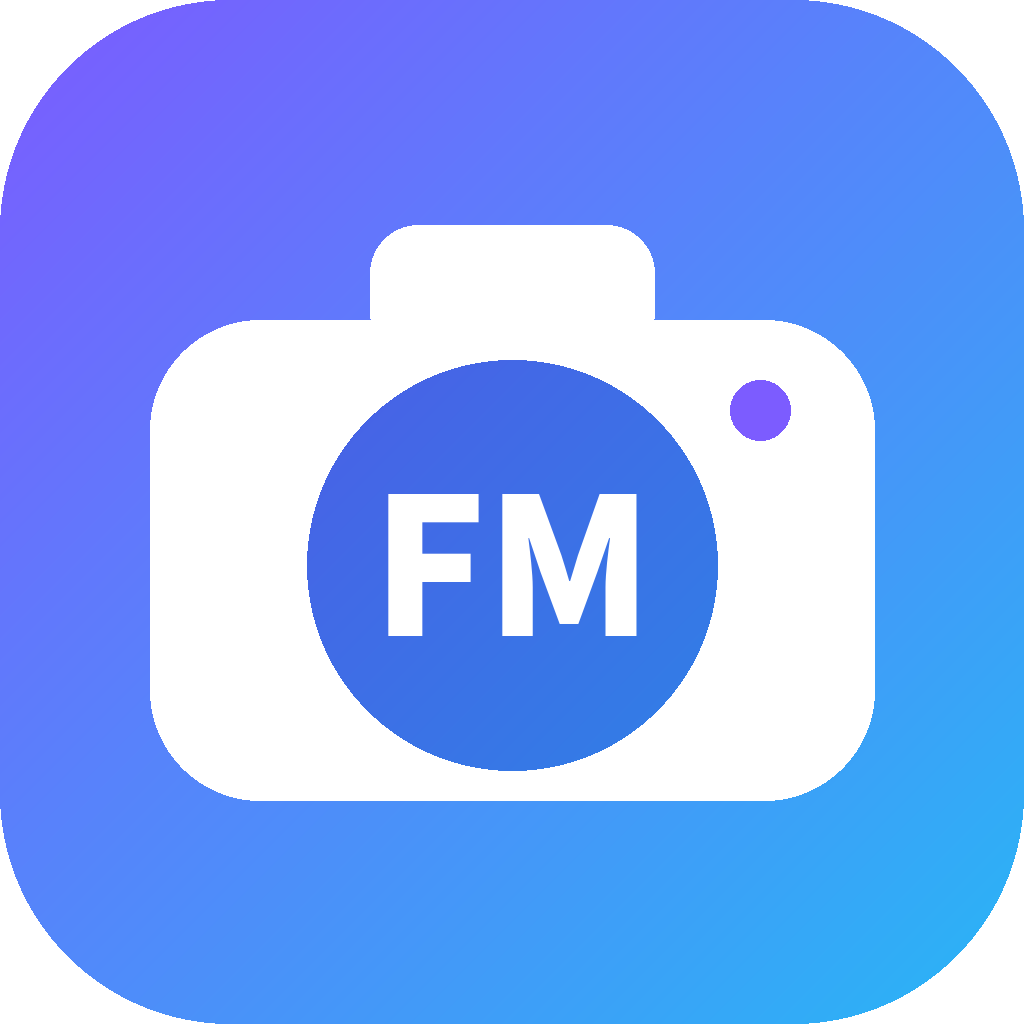
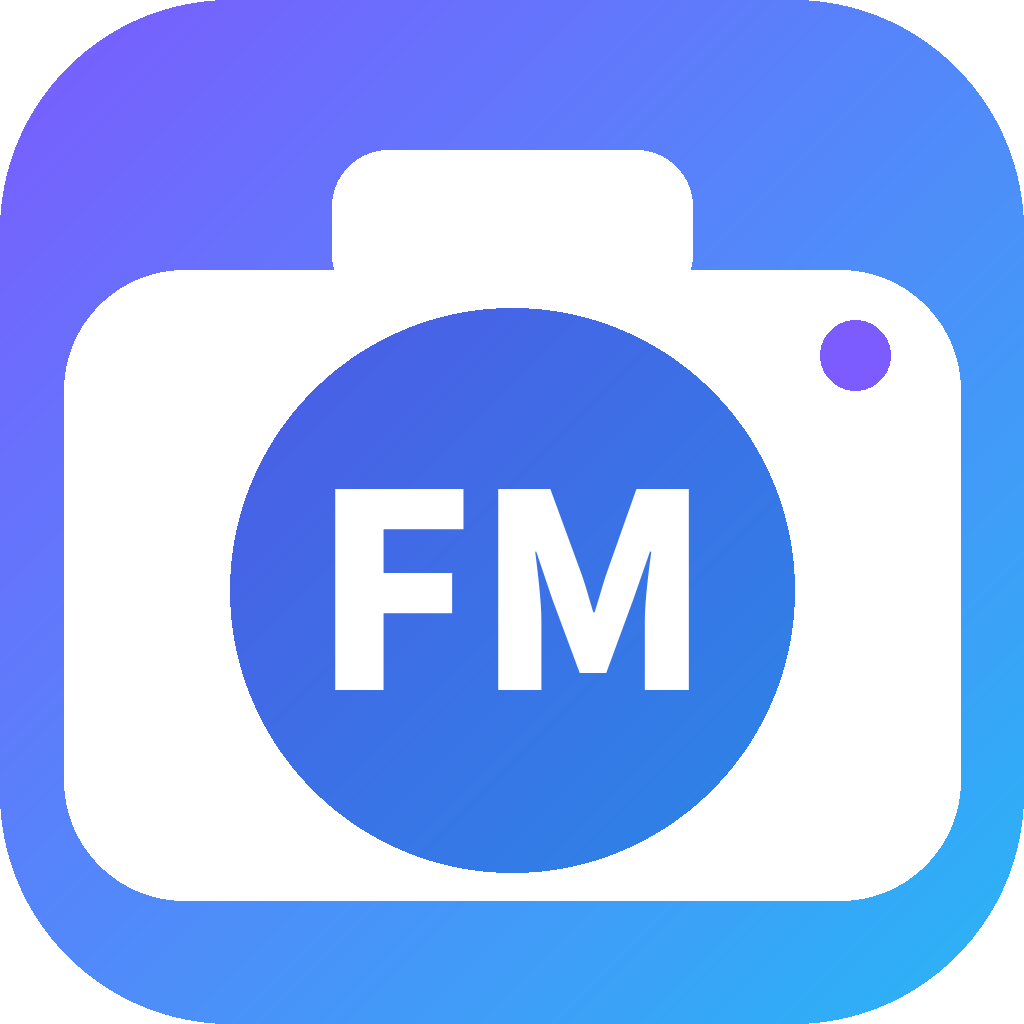
v0.9.1: 아이콘 카메라 크게, FM 글자 잘 보이게
Claude-Session: https://claude.ai/code/session_01BDfT7P5ie7yiuucvk3xHW4

diff --git a/ui/index.html b/ui/index.html
@@ -33,11 +33,11 @@
   <symbol id="i-shield" viewBox="0 0 24 24"><path d="M12 3 4 6v6c0 5 3.4 8 8 9 4.6-1 8-4 8-9V6Z"/><path d="m9 12 2 2 4-4"/></symbol>
 </svg>
 
[2 lines of base64/hex data omitted]
 
 <header class="top pywebview-drag-region" id="topbar">
   <div class="brand pywebview-drag-region">
[2 lines of base64/hex data omitted]
     <div class="pywebview-drag-region"><b class="pywebview-drag-region">FM FACE STUDIO</b><small class="pywebview-drag-region">FOOTBALL MANAGER</small></div>
   </div>
   <nav class="tabs pywebview-drag-region">

diff --git a/facepicker/api.py b/facepicker/api.py
@@ -24,7 +24,7 @@ from .people import People
 from .settings import Settings, app_data_dir
 from .style import STYLE_LABELS, Deco, decorate
 
-VERSION = "0.9.0"
+VERSION = "0.9.1"
 DISPLAY_MAX = 1600   # 화면에 보낼 편집용 사진 최대 크기
 log = logging.getLogger("api")
 
